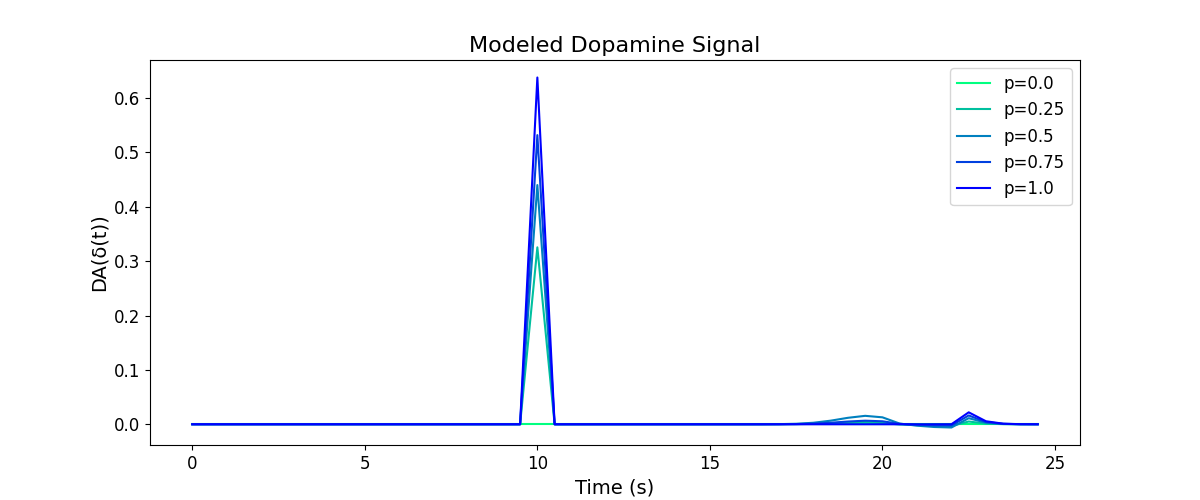
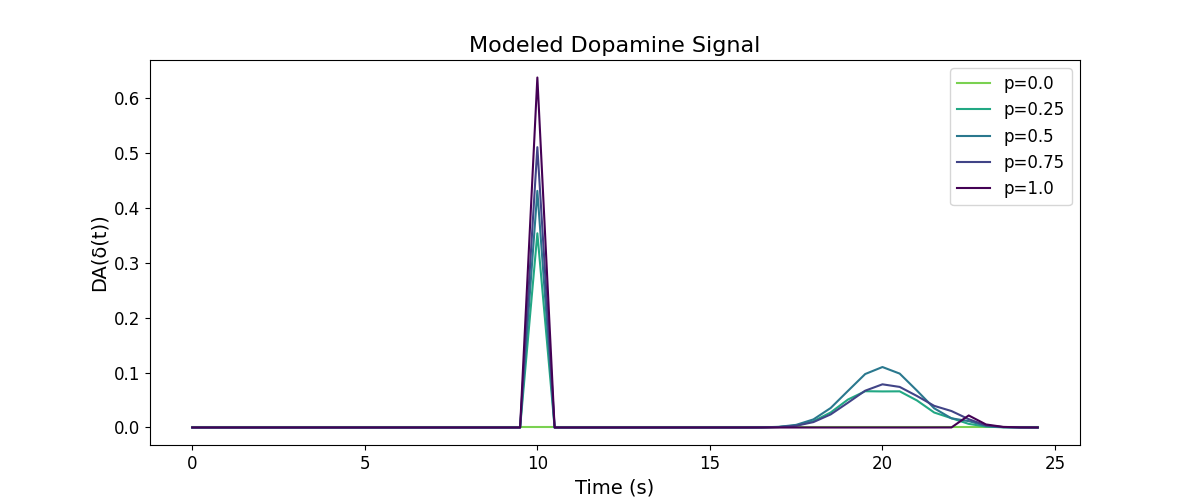
Good results for all exercises

diff --git a/td_learning_v4.py b/td_learning_v4.py
@@ -116,11 +116,11 @@ def plot_tdl_vars(time_points, values_history, value_differences, td_errors_hist
 
     fig, axes = plt.subplots(4, 1, figsize=(12, 15), sharex=True)
     trial_indices = np.arange(0, values_history.shape[0], 10)
-    colors = plt.cm.winter(np.linspace(1, 0, len(trial_indices))*0.9)
+    colors = plt.cm.viridis(np.linspace(1, 0, len(trial_indices))*0.8)
     
     # Plot stimulus and reward
-    axes[0].plot(time_points, [stimulus_function(t) for t in time_points], color=plt.cm.winter(0.0), label='Stimulus', linewidth=2)
-    axes[0].plot(time_points, [reward_function(t) for t in time_points], color=plt.cm.winter(0.9), label='Reward', linewidth=2)
+    axes[0].plot(time_points, [stimulus_function(t) for t in time_points], color=plt.cm.viridis(0.0), label='Stimulus', linewidth=2)
+    axes[0].plot(time_points, [reward_function(t) for t in time_points], color=plt.cm.viridis(0.8), label='Reward', linewidth=2)
     axes[0].set_ylabel('Magnitude')
     axes[0].set_title('Stimulus and Reward')
     axes[0].legend(loc='upper right')
@@ -189,25 +189,25 @@ def plot_tdl_vars_mean(time_points, mean_100trials, p):
     fig, axes = plt.subplots(3, 1, figsize=(12, 12), sharex=True)
     
     # Plot value estimates
-    axes[0].plot(time_points, mean_100trials['values'][2], color=plt.cm.winter(1.0), label='Unrewarded')
-    axes[0].plot(time_points, mean_100trials['values'][1], color=plt.cm.winter(0.5), label='Rewarded')
-    axes[0].plot(time_points, mean_100trials['values'][0], color=plt.cm.winter(0.0), label='All trials')
+    axes[0].plot(time_points, mean_100trials['values'][2], color=plt.cm.viridis(0.8), label='Unrewarded')
+    axes[0].plot(time_points, mean_100trials['values'][1], color=plt.cm.viridis(0.5), label='Rewarded')
+    axes[0].plot(time_points, mean_100trials['values'][0], color=plt.cm.viridis(0.0), label='All trials')
     axes[0].set_ylabel('Value Estimate')
     axes[0].set_title(f'Value Estimate')
     axes[0].legend()
     
     # Plot value differences
-    axes[1].plot(time_points, mean_100trials['value_differences'][2], color=plt.cm.winter(1.0), label='Unrewarded')
-    axes[1].plot(time_points, mean_100trials['value_differences'][1], color=plt.cm.winter(0.5), label='Rewarded')
-    axes[1].plot(time_points, mean_100trials['value_differences'][0], color=plt.cm.winter(0.0), label='All trials')
+    axes[1].plot(time_points, mean_100trials['value_differences'][2], color=plt.cm.viridis(0.8), label='Unrewarded')
+    axes[1].plot(time_points, mean_100trials['value_differences'][1], color=plt.cm.viridis(0.5), label='Rewarded')
+    axes[1].plot(time_points, mean_100trials['value_differences'][0], color=plt.cm.viridis(0.0), label='All trials')
     axes[1].set_ylabel('Value Differences')
     axes[1].set_title('Value Differences')
     axes[1].legend()
     
     # Plot TD errors
-    axes[2].plot(time_points, mean_100trials['td_errors'][2], color=plt.cm.winter(1.0), label='Unrewarded')
-    axes[2].plot(time_points, mean_100trials['td_errors'][1], color=plt.cm.winter(0.5), label='Rewarded')
-    axes[2].plot(time_points, mean_100trials['td_errors'][0], color=plt.cm.winter(0.0), label='All trials')
+    axes[2].plot(time_points, mean_100trials['td_errors'][2], color=plt.cm.viridis(0.8), label='Unrewarded')
+    axes[2].plot(time_points, mean_100trials['td_errors'][1], color=plt.cm.viridis(0.5), label='Rewarded')
+    axes[2].plot(time_points, mean_100trials['td_errors'][0], color=plt.cm.viridis(0.0), label='All trials')
     axes[2].set_ylabel('TD Error')
     axes[2].set_title('TD Error')
     axes[2].legend()
@@ -228,9 +228,9 @@ def plot_dopamine_activity(time_points, dopamine_activities, p_values):
     plt.figure(figsize=(12, 5))
     
     for i, p in enumerate(p_values):
-        plt.plot(time_points, dopamine_activities[i], color=plt.cm.winter(1-p), label=f'p={p}')
+        plt.plot(time_points, dopamine_activities[i], color=plt.cm.viridis((1-p)*0.8), label=f'p={p}')
         
-    #plt.plot(time_points, dopamine_activities[0], color=plt.cm.winter(0.0))
+    #plt.plot(time_points, dopamine_activities[0], color=plt.cm.viridis(0.0))
     plt.legend()
     plt.xlabel('Time (s)')
     plt.ylabel('DA(δ(t))')
@@ -272,13 +272,23 @@ def compute_mean_100trials(time_points, values_history, value_differences, td_er
     mean_unrewarded_td_errors = np.mean(unrewarded_td_errors, axis=0)
     
     # Convert TD errors to dopamine signal
-    dopamine_signal = np.vectorize(model_dopamine)(mean_all_td_errors)
+    # dopamine_signal = np.vectorize(model_dopamine)(mean_all_td_errors)
+    mean_dopamine_signal = np.mean(np.vectorize(model_dopamine)(last_100_td_errors), axis=0)
+    
+    #dopamine_signal = np.zeros_like(last_100_td_errors[0]) 
+    
+    #for trial_idx in range(len(last_100_td_errors)):
+        
+    #    for time_idx in range(len(last_100_td_errors[trial_idx])):
+    #        dopamine_signal[time_idx] += model_dopamine(last_100_td_errors[trial_idx][time_idx])
+    
+    #mean_dopamine_signal = dopamine_signal / len(last_100_td_errors)
     
     return {
         'values': (mean_all_values, mean_rewarded_values, mean_unrewarded_values),
         'value_differences': (mean_all_value_differences, mean_rewarded_value_differences, mean_unrewarded_value_differences),
         'td_errors': (mean_all_td_errors, mean_rewarded_td_errors, mean_unrewarded_td_errors),
-        'dopamine': dopamine_signal
+        'dopamine': mean_dopamine_signal
     }
     
 def exercise_5():
@@ -293,7 +303,7 @@ def exercise_5():
 def exercise_6_7():
     # Exercise 7-8: Analyze multiple reward probabilities
     print("\nAnalyzing different reward probabilities...")
-    p_values = np.array([0.0, 0.25, 0.5, 0.75, 1.0])
+    p_values = np.array([1.0, 0.75, 0.5, 0.25, 0.0])
     n_trials=1000
     feature_detector="box_car"
     epsilon=0.01
@@ -329,8 +339,8 @@ def exercise_6_7():
     
     # Plot peaks vs probability
     plt.figure(figsize=(8, 6))
-    plt.plot(p_values, stimulus_peaks, color=plt.cm.winter(1.0), label='Stimulus response')
-    plt.plot(p_values, reward_peaks, color=plt.cm.winter(0.3), label='Reward response')
+    plt.plot(p_values, stimulus_peaks, color=plt.cm.viridis(0.0), label='Stimulus response')
+    plt.plot(p_values, reward_peaks, color=plt.cm.viridis(0.8), label='Reward response')
     plt.xlabel('Reward probability (p)')
     plt.ylabel('Peak dopamine response')
     plt.legend()
